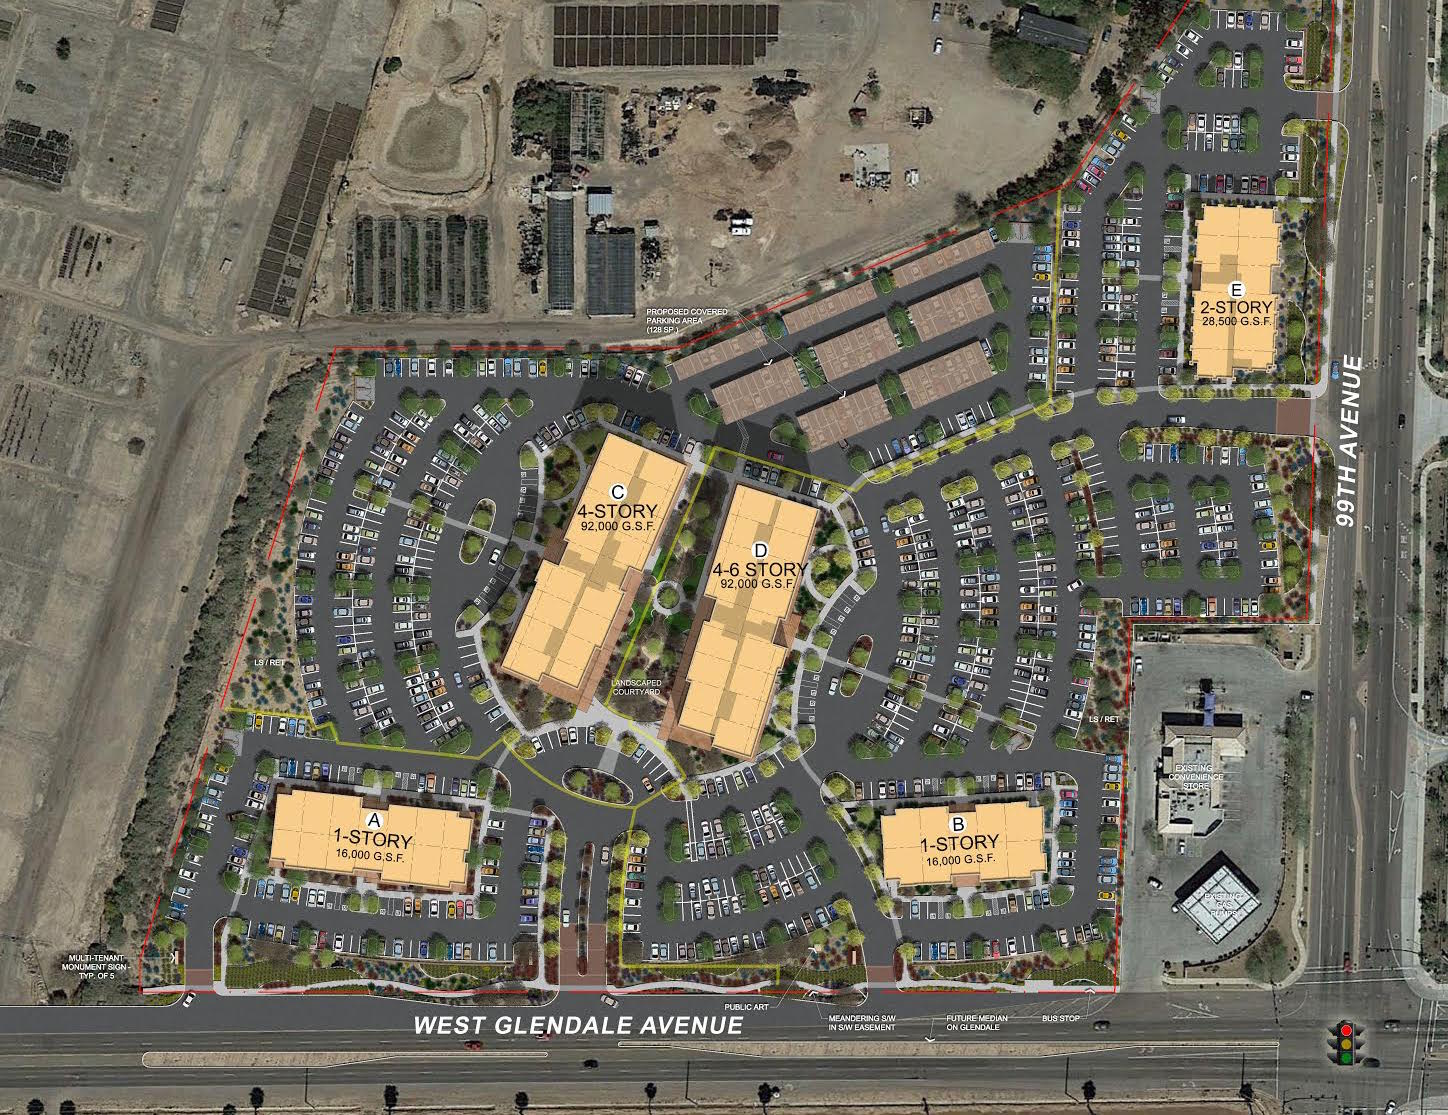
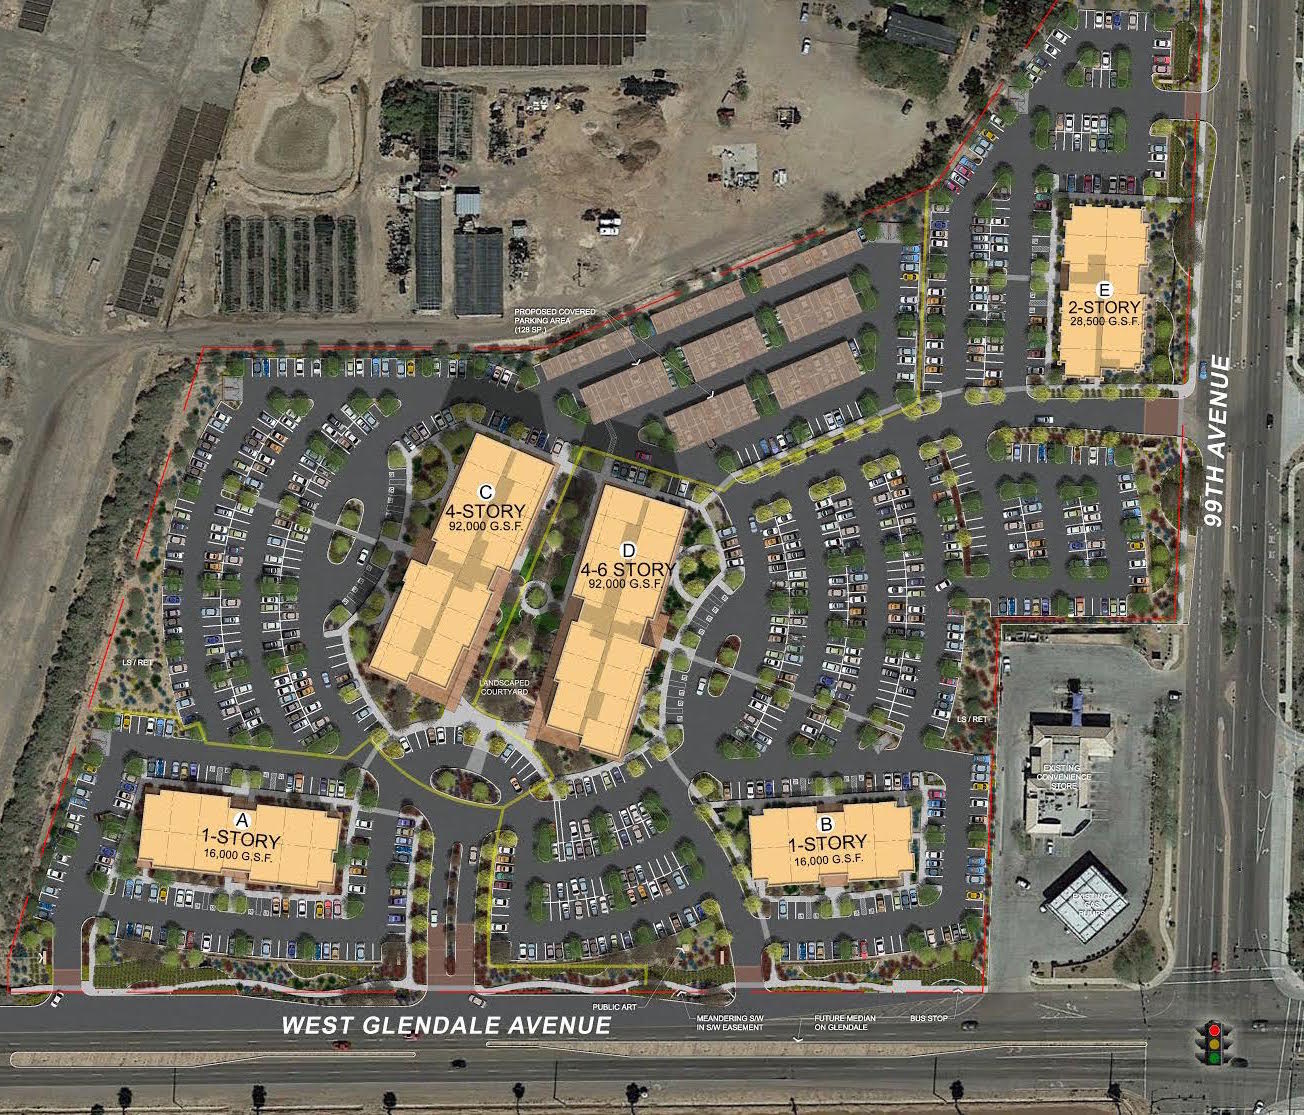
black mobile links and cropped image

diff --git a/src/js/home/press/styles.scss b/src/js/home/press/styles.scss
@@ -20,6 +20,9 @@
 		&:hover {
 			text-decoration: none;
 		}
+		@media screen and (max-width: 767px){
+			color: black;
+		}
 	}
 	.title {
 		font-size: 20px;
